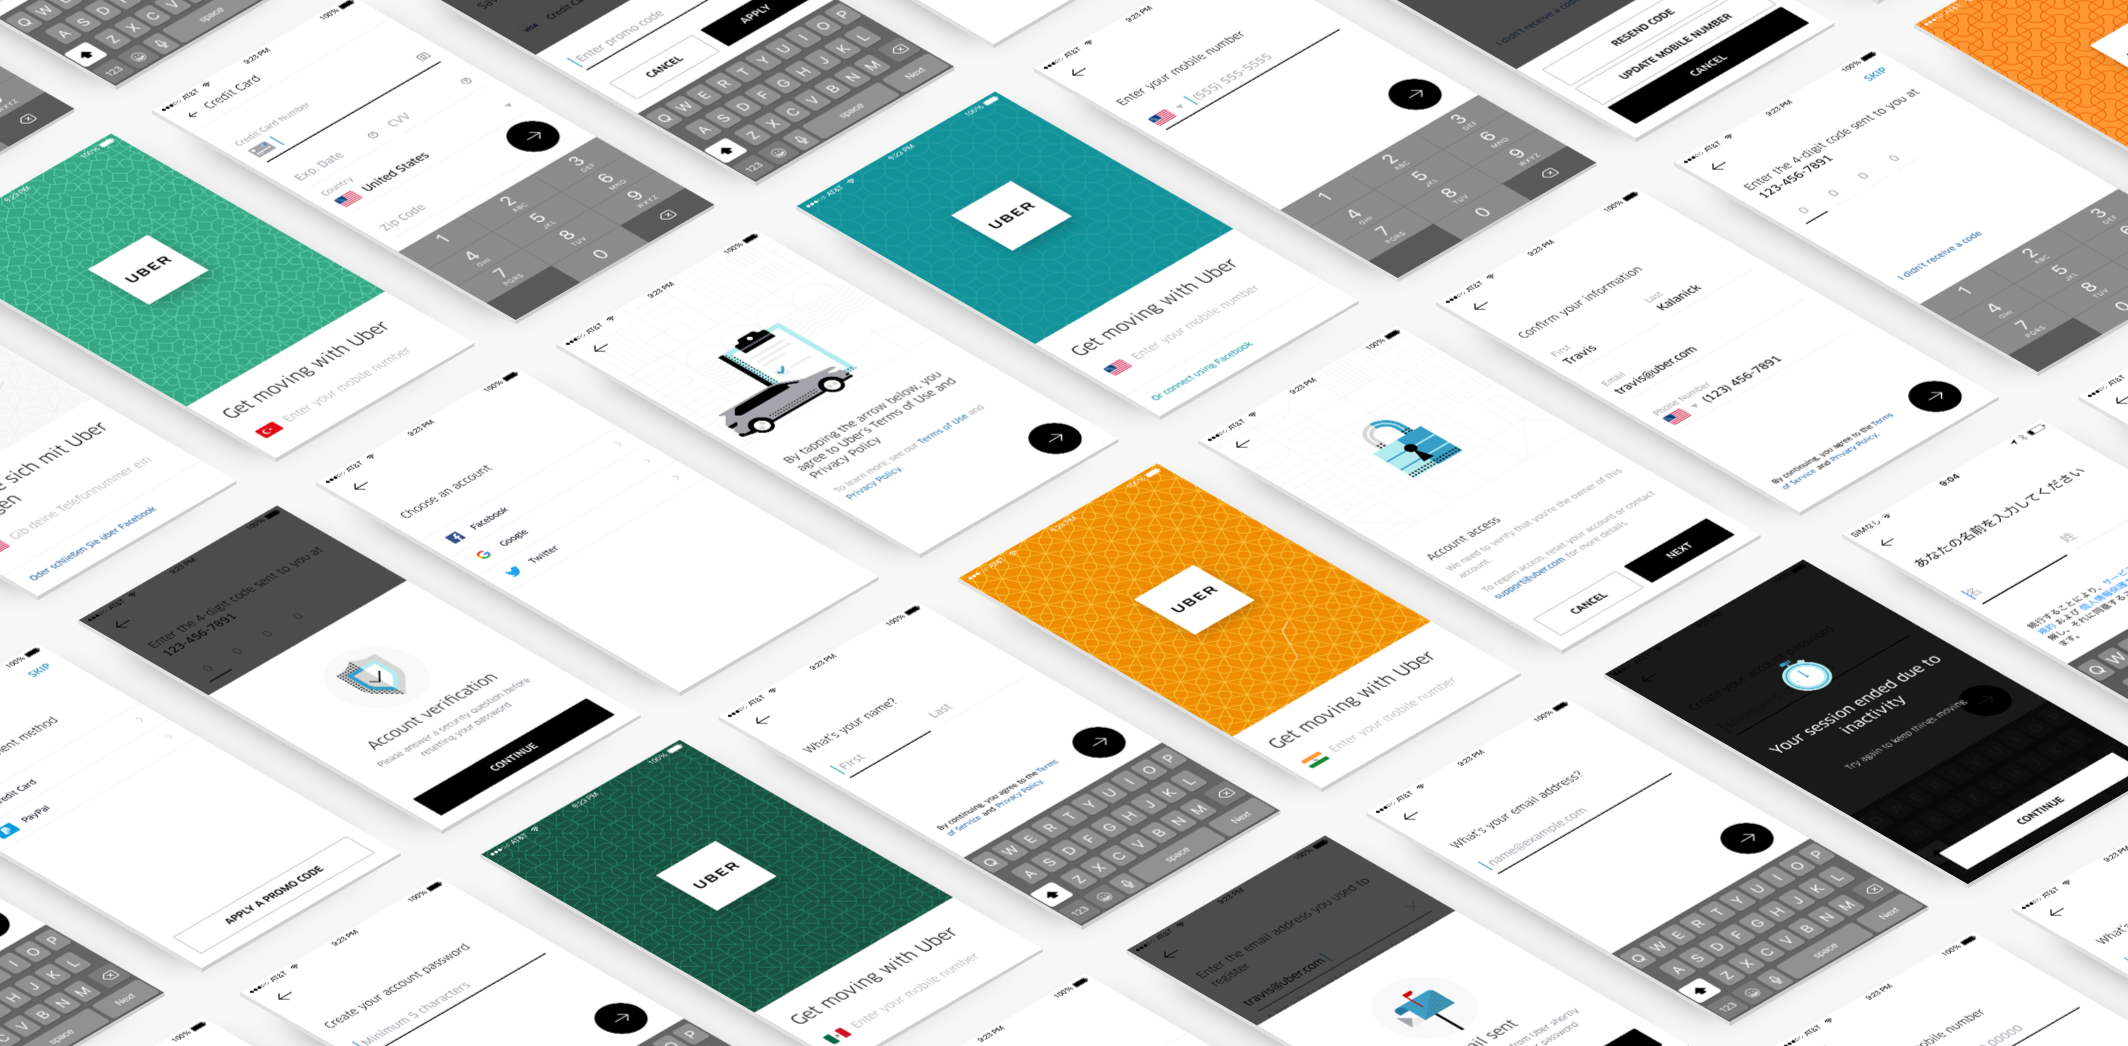
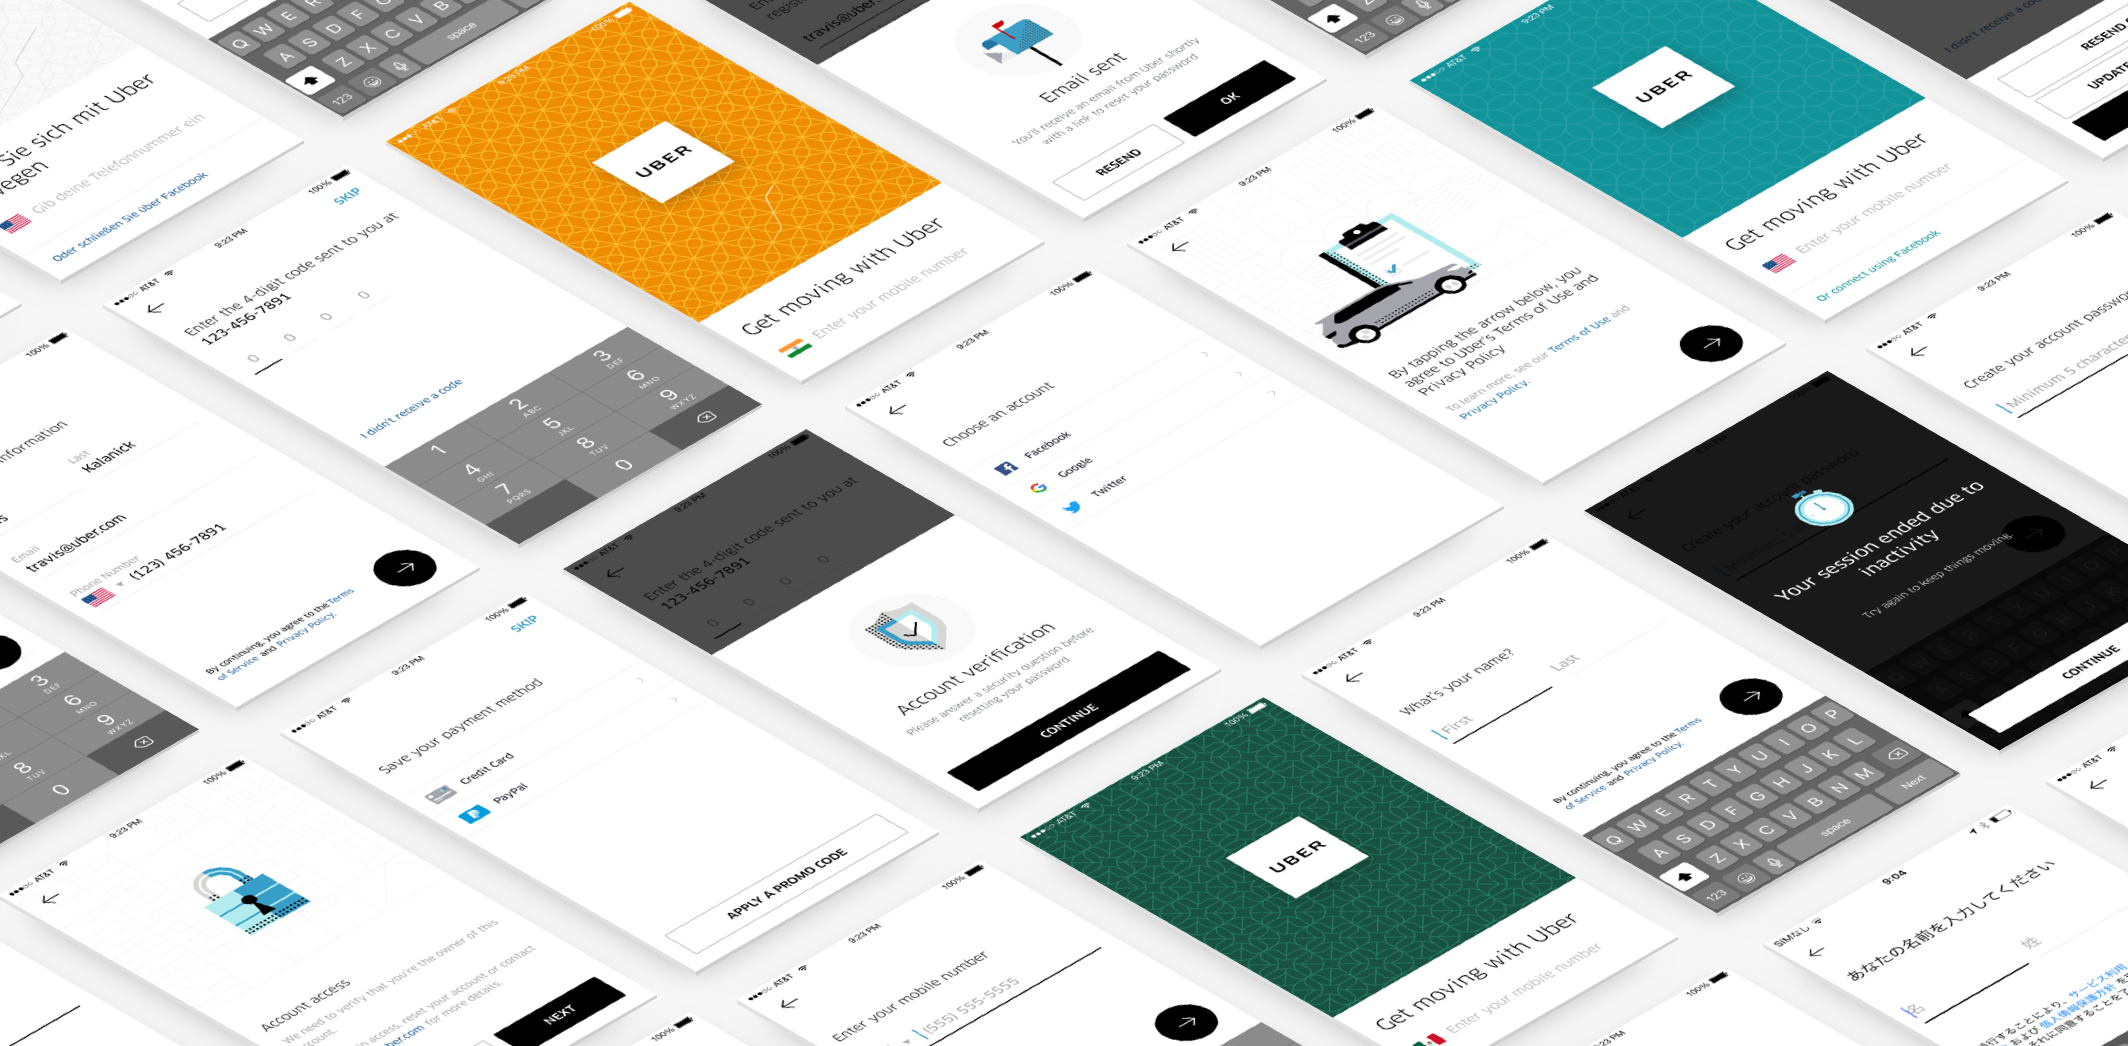
Fixed footer behavior, added better mosaic, added new nightmode animation

diff --git a/js/script-home.js b/js/script-home.js
@@ -15,6 +15,7 @@ $(document).ready(function() {
     var introGreeting = $('.intro-greeting');
     var introBio = $('.intro-bio');
     var introArrow = $(".intro-arrow");
+    var introSpan = $(".intro-bio > span");
 
     var workItem = $(".work-item");
 
@@ -31,26 +32,24 @@ $(document).ready(function() {
     var workTileLoadPoint = 400;
 
     // about link hover
-    aboutButton.hover(function() {
+    introSpan.hover(function() {
         body.addClass("nightmode-background");
         shapesTriangle.addClass("nightmode-shapes-triangle");
         introGreeting.addClass("nightmode-text-dark");
         introBio.addClass("nightmode-text-light");
         aboutButton.addClass("nightmode-text-dark");
     }, function() {
-        var hasClass = about.hasClass("about-visible");
-        if (hasClass == false) {
-            body.removeClass("nightmode-background");
-            shapesTriangle.removeClass("nightmode-shapes-triangle");
-            introGreeting.removeClass("nightmode-text-dark");
-            introBio.removeClass("nightmode-text-light");
-            aboutButton.removeClass("nightmode-text-dark");
-        }
+        body.removeClass("nightmode-background");
+        shapesTriangle.removeClass("nightmode-shapes-triangle");
+        introGreeting.removeClass("nightmode-text-dark");
+        introBio.removeClass("nightmode-text-light");
+        aboutButton.removeClass("nightmode-text-dark");
     });
 
     // about link click
     aboutButton.click(function() {
-        body.addClass("is-no-scroll");
+        body.addClass("nightmode-background is-no-scroll");
+        shapesTriangle.addClass("nightmode-shapes-triangle");
         wholeScene.addClass("scene-hidden")
         about.addClass("about-visible");
         wrapperHome.addClass("is-hidden");

diff --git a/_sass/layouts/_wrappers.scss b/_sass/layouts/_wrappers.scss
@@ -24,10 +24,6 @@
     z-index: 1;
 
     @media (max-width: $breakpointLarge) {
-        width: 66.6%;
-    }
-
-    @media (max-width: $breakpointMedium) {
         width: 75%;
     }
 
@@ -40,7 +36,6 @@
     width: 50%;
     margin: 0 auto;
     position: relative;
-    padding: 0 auto 8em auto;
 
     @media (max-width: $breakpointLarge) {
         width: 75%;
@@ -66,10 +61,6 @@
     position: relative;
 
     @media (max-width: $breakpointLarge) {
-        width: 66.6%;
-    }
-
-    @media (max-width: $breakpointMedium) {
         width: 75%;
     }
 }

diff --git a/_sass/layouts/_home-header.scss b/_sass/layouts/_home-header.scss
@@ -18,6 +18,12 @@
     color: $greyDark;
     margin: 0 auto;
     cursor: pointer;
+
+    transition: all $durationShort ease;
+
+    &:hover {
+        opacity: .5;
+    }
 }
 
 .home-header-about-hidden {

diff --git a/_sass/components/_intro.scss b/_sass/components/_intro.scss
@@ -25,7 +25,7 @@
 
     > span {
         color: $pink;
-        // cursor: url('../images/nightmode.png'), auto;
+        cursor: help;
     }
 }
 

diff --git a/_sass/layouts/_post-visuals.scss b/_sass/layouts/_post-visuals.scss
@@ -5,3 +5,7 @@
         @extend %visually-hidden;
     }
 }
+
+.post-visuals-item-last {
+    margin-bottom: 8.5em !important;
+}
